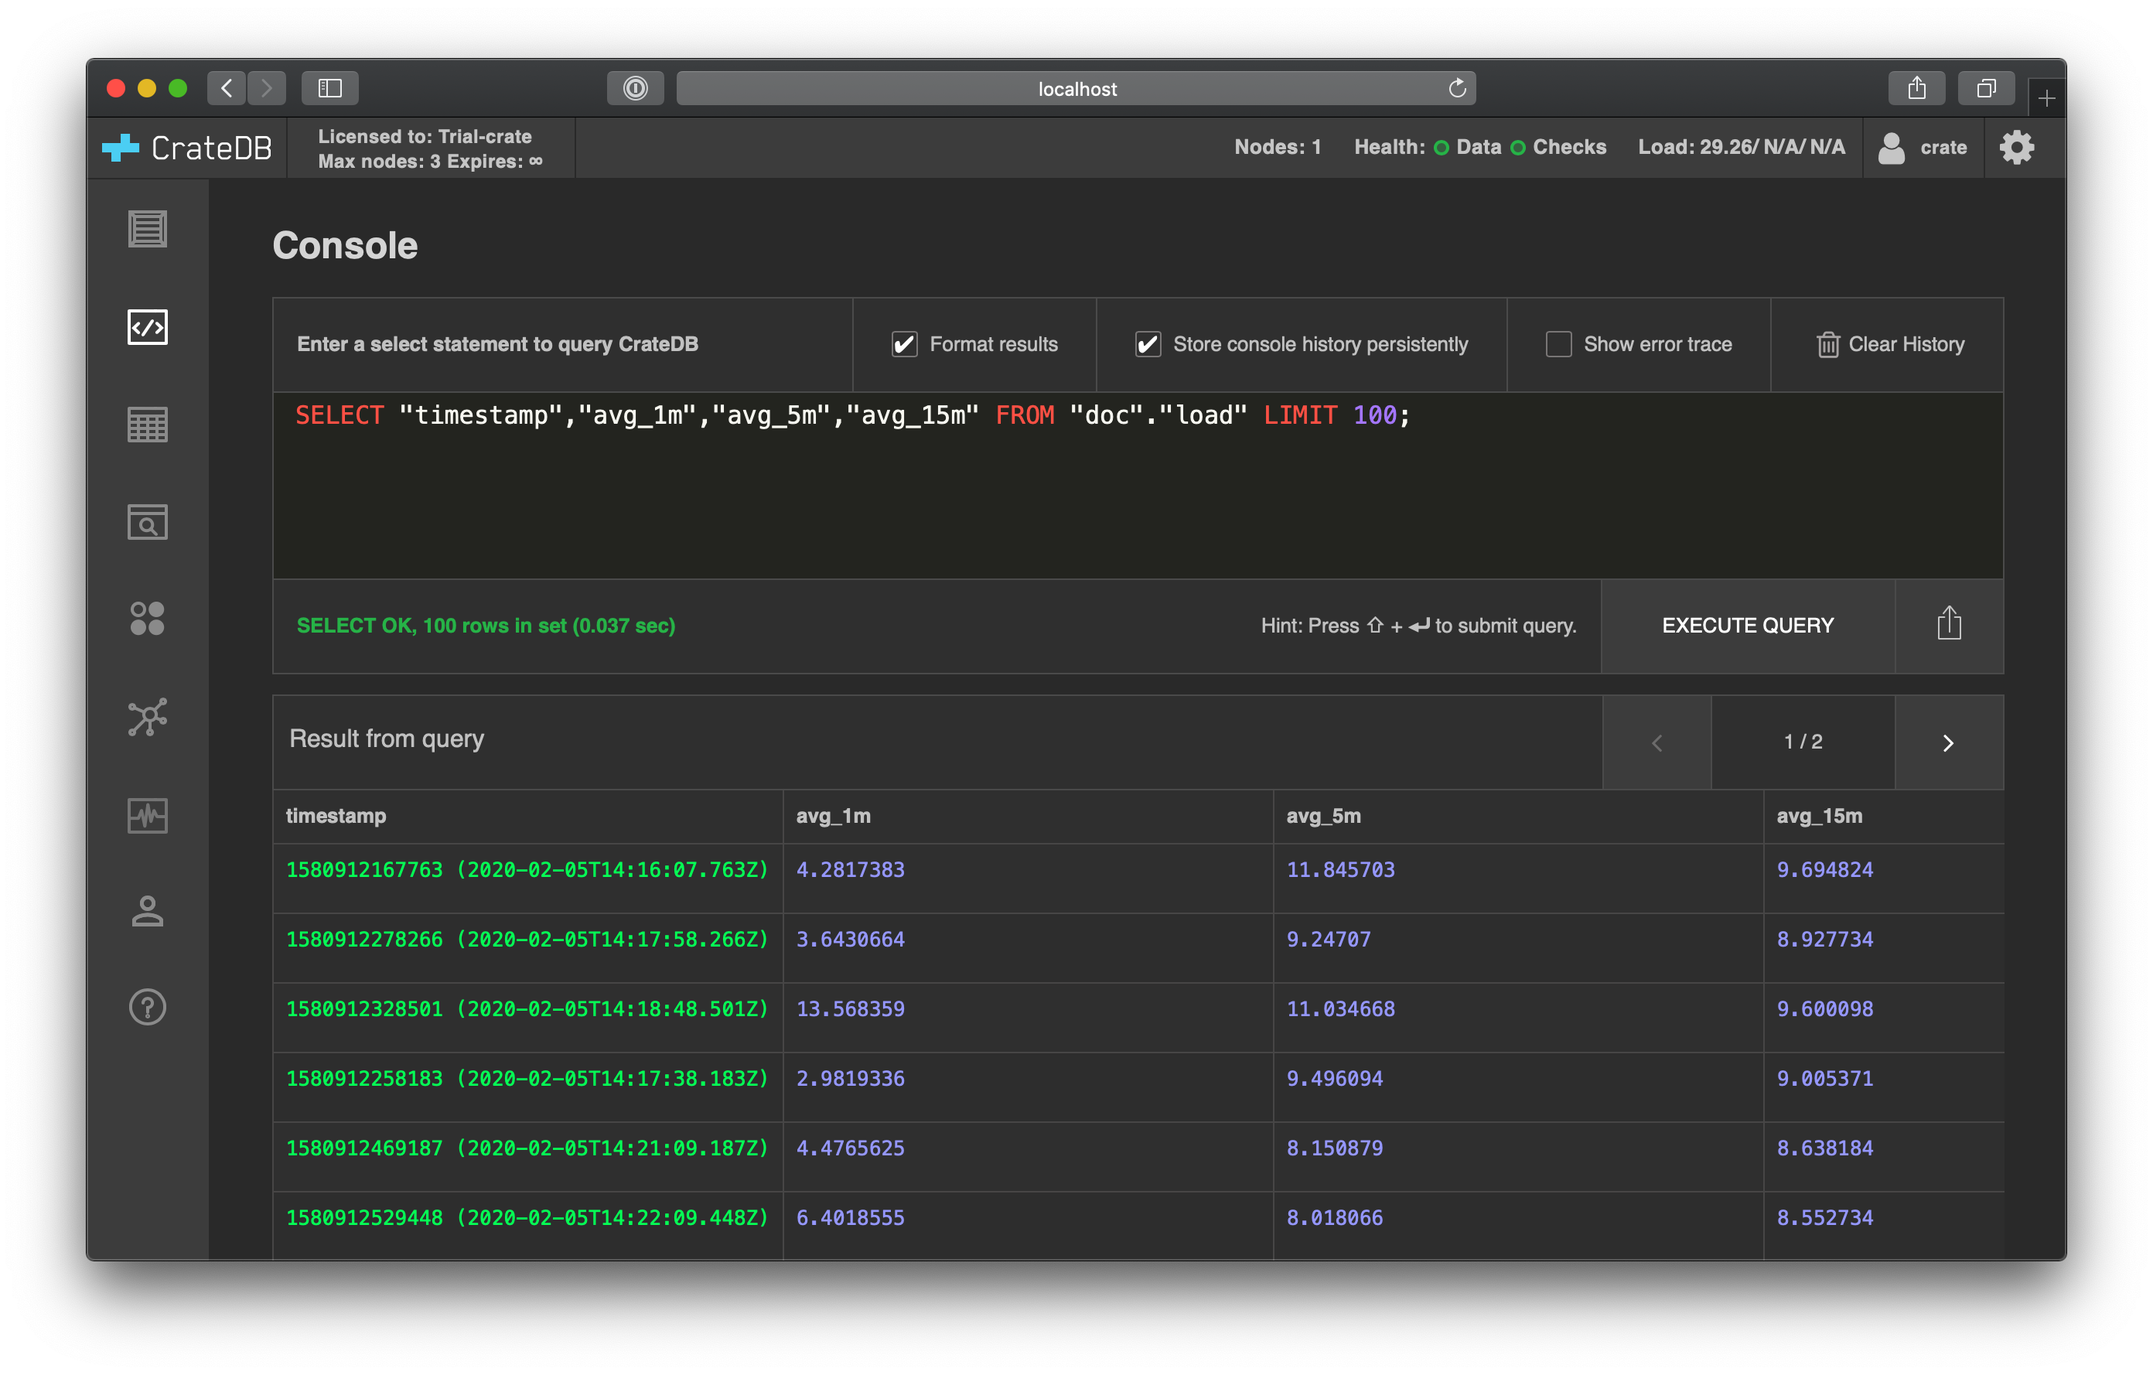
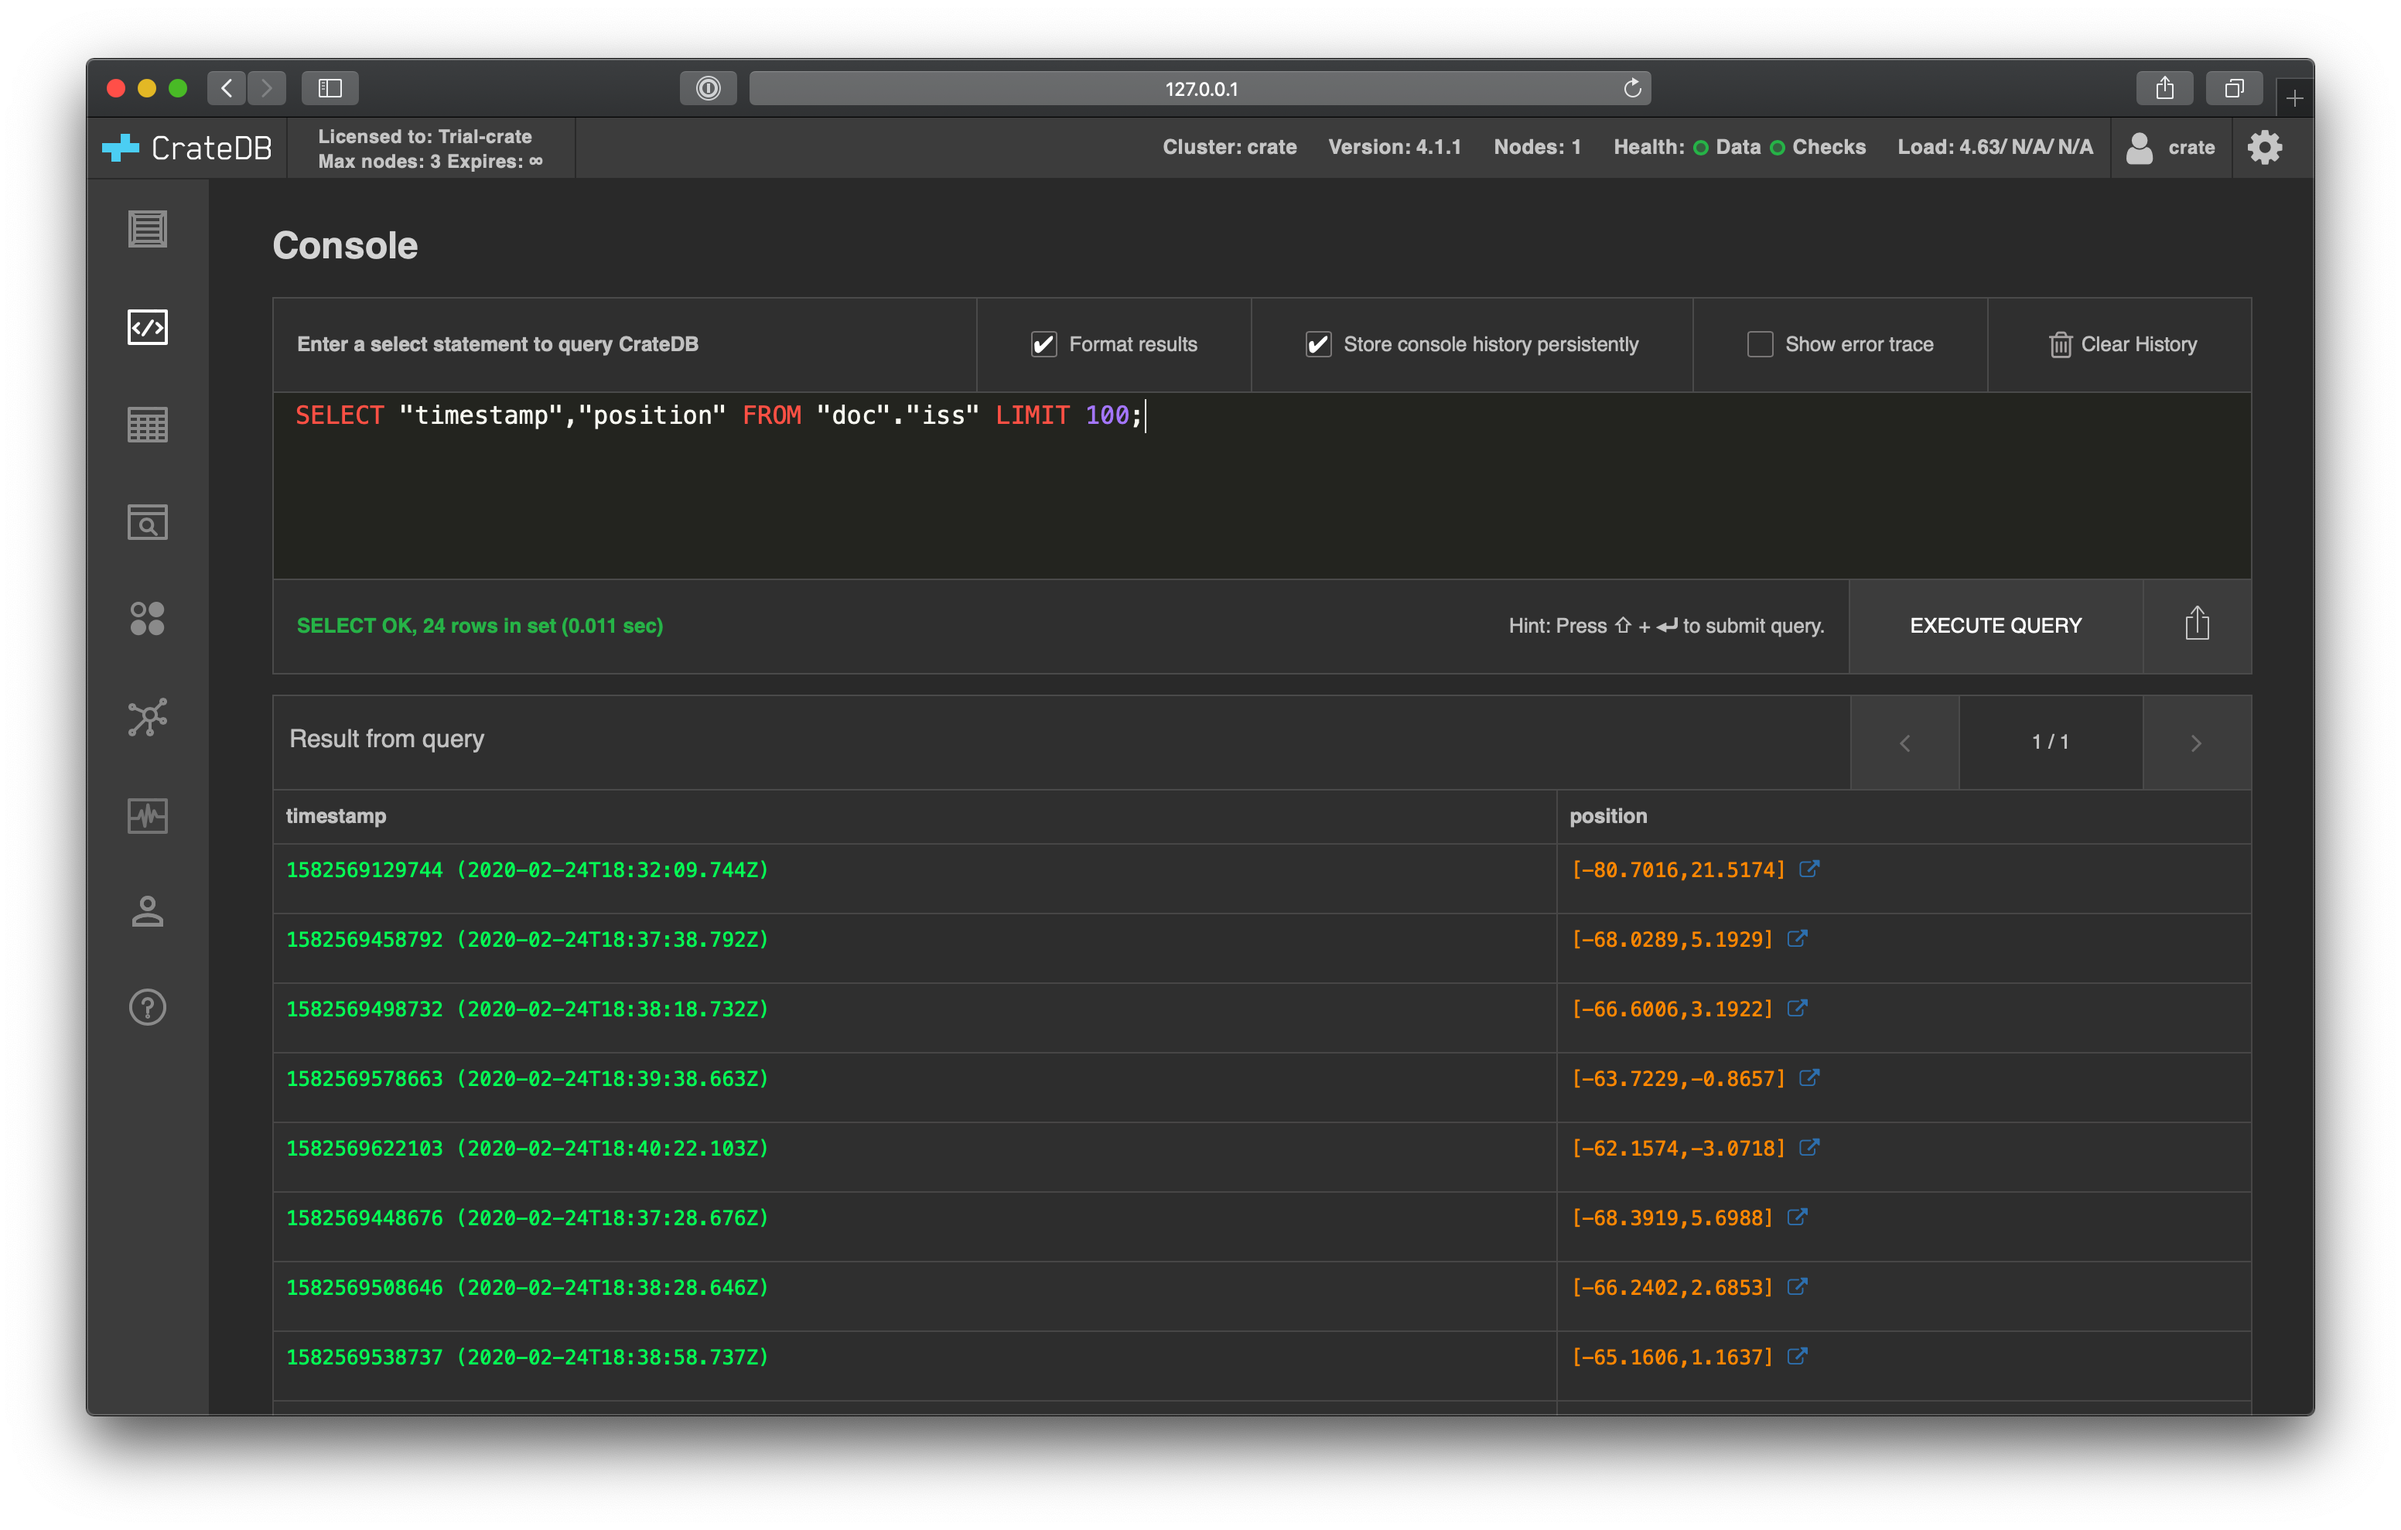
Add tutorial for generating time series data using node and node-postgres Co-authored-by: Naomi Slater <23469+mechanomi@users.noreply.github.com>

diff --git a/docs/generate-time-series/javascript.rst b/docs/generate-time-series/javascript.rst
@@ -1,0 +1,357 @@
+.. _gen-ts-javascript:
+
+==========================================
+Generate time series data using JavaScript
+==========================================
+
+This tutorial will show you how to generate some :ref:`experimental time series
+data <gen-ts>` from information about the `International Space Station`_
+using Javascript (specifically, `Node.js`_).
+
+.. SEEALSO::
+
+    :ref:`gen-ts`
+
+.. rubric:: Table of contents
+
+.. contents::
+   :local:
+
+
+Prerequisites
+=============
+
+You must have CrateDB :ref:`installed and running <install-run>`.
+
+Make sure you're running an up-to-date version of `Node`_.
+
+Then, upgrade to the latest `npm`_ version:
+
+.. code-block:: console
+
+    $ npm install -g npm@latest
+
+Install the `node-postgres`_ and `Axios`_ libraries:
+
+.. code-block:: console
+
+    $ npm install pg axios
+
+The ``node-postgres`` and ``axios`` libraries both use `Promises`_ when
+performing network operations. Promises are a way of encapsulating the eventual
+result of an asynchronous operation.
+
+.. seealso::
+
+    If you're not familiar with asynchronous operations and Promises, check out
+    Mozilla's `detailed guide`_ on the topic.
+
+Most of this tutorial is designed for Node's `interactive REPL mode`_ so that
+you can experiment with the commands as you see fit. Since both libraries use
+Promises, you should start ``node`` with support for the `await`_ operator,
+like so:
+
+.. code-block:: console
+
+    $ node --experimental-repl-await
+
+
+Use JavaScript to get ISS telemetry data
+=========================================
+
+You can get telemetry data from `Open Notify`_, a third-party service that
+provides a simple API to consume data from NASA (specifically, the current
+location of the International Space Station). The endpoint for this data is
+`<http://api.open-notify.org/iss-now.json>`_.
+
+Start an interactive Node session (as above).
+
+First, import the `Axios`_ library:
+
+.. code-block:: js
+
+    > const axios = require('axios').default;
+
+Then, read the current position of the ISS with an HTTP GET request to the Open
+Notify API endpoint, like this:
+
+.. code-block:: js
+
+    > let response = await axios.get('http://api.open-notify.org/iss-now.json')
+
+.. code-block:: js
+
+    > response.data
+    {
+      iss_position: { longitude: '-107.0497', latitude: '42.5431' },
+      message: 'success',
+      timestamp: 1582568638
+    }
+
+The endpoint returns a JSON payload, which contains an ``iss_position`` object
+with ``latitude`` and ``longitude`` data.
+
+You can encapsulate this operation with a function that returns longitude and
+latitude as a `WKT`_ string:
+
+.. code-block:: js
+
+    > async function position() {
+    ...     let response = await axios.get('http://api.open-notify.org/iss-now.json')
+    ...     return `POINT (${response.data.iss_position.longitude} ${response.data.iss_position.latitude})`
+    ... }
+
+When you run this function, it should return your point string:
+
+.. code-block:: js
+
+    > await position()
+
+.. code-block:: js
+
+    'POINT (-99.4196 38.1642)'
+
+Set up CrateDB
+==============
+
+First, import the `node-postgres`_ client:
+
+.. code-block:: js
+
+    > const { Client } = require('pg')
+
+Then `connect`_ to CrateDB, using the `Postgres Wire Protocol`_ port
+(``5432``):
+
+.. code-block:: js
+
+    > const client = new Client({connectionString: 'postgresql://crate@localhost:5432/doc'})
+
+.. code-block:: js
+
+    > await client.connect()
+
+Finally, `create a table`_ suitable for writing ISS position coordinates:
+
+.. code-block:: js
+
+    > var query = `
+    ...     CREATE TABLE iss (
+    ...         timestamp TIMESTAMP GENERATED ALWAYS AS CURRENT_TIMESTAMP,
+    ...         position GEO_POINT)`
+
+.. code-block:: js
+
+    > await client.query(query)
+
+.. code-block:: js
+
+    Result {
+      command: 'CREATE',
+      rowCount: 1,
+      oid: null,
+      rows: [],
+      fields: [],
+      _parsers: undefined,
+      _types: TypeOverrides {
+        _types: {
+          getTypeParser: [Function: getTypeParser],
+          setTypeParser: [Function: setTypeParser],
+          arrayParser: [Object],
+          builtins: [Object]
+        },
+        text: {},
+        binary: {}
+      },
+      RowCtor: null,
+      rowAsArray: false
+    }
+
+Success!
+
+In the `CrateDB Admin UI`_, you should see the new table when you navigate to
+the *Tables* screen using the left-hand navigation menu:
+
+.. image:: ../_assets/img/generate-time-series/table.png
+
+
+Record the ISS position
+=======================
+
+With the table in place, you can start recording the position of the ISS.
+
+The following command calls your ``position`` function and will `INSERT`_ the
+result into the ``iss`` table:
+
+.. code-block:: js
+
+    > await client.query("INSERT INTO iss (position) VALUES (?)", [await position()])
+
+.. code-block:: js
+
+    Result {
+      command: 'INSERT',
+      rowCount: 1,
+      oid: 0,
+      rows: [],
+      fields: [],
+      _parsers: undefined,
+      _types: TypeOverrides {
+        _types: {
+          getTypeParser: [Function: getTypeParser],
+          setTypeParser: [Function: setTypeParser],
+          arrayParser: [Object],
+          builtins: [Object]
+        },
+        text: {},
+        binary: {}
+      },
+      RowCtor: null,
+      rowAsArray: false
+    }
+
+Press the up arrow on your keyboard and hit *Enter* to run the same command a
+few more times.
+
+When you're done, you can `SELECT`_ that data back out of CrateDB, like so:
+
+.. code-block:: js
+
+    > let result = await client.query('SELECT * FROM iss')
+
+.. code-block:: js
+
+    > result.rows
+    [
+      {
+        timestamp: 2020-02-24T18:32:09.744Z,
+        position: { x: -80.7016, y: 21.5174 }
+      },
+      {
+        timestamp: 2020-02-24T18:31:43.542Z,
+        position: { x: -81.8096, y: 22.7667 }
+      },
+      {
+        timestamp: 2020-02-24T18:32:03.622Z,
+        position: { x: -80.9554, y: 21.8065 }
+      }
+    ]
+
+Here you have recorded three sets of ISS position coordinates.
+
+Automate it
+===========
+
+Now you have the basics figured out, let's automate the data collection. Doing
+this will require a change of approach.
+
+Previously, you were using a `client`_ to connect to and insert data into
+CrateDB. However, clients are ephemeral, and once closed, you need to recreate
+them. Creating a new client requires a handshake with CrateDB, and this
+overhead cost can be prohibitive if you are rapidly creating new clients.
+
+Instead, use a `connection pool`_ to manage your connections. Connection pools
+manage a collection of connected clients that you can request, use, and return
+to the pool.
+
+Create a new file called ``iss-position.js``, like this:
+
+.. code-block:: javascript
+
+    const axios = require('axios').default;
+    const { Pool } = require('pg')
+    const pool = new Pool({connectionString: 'postgresql://crate@localhost:5432/doc'})
+
+    // Sampling resolution
+    const seconds = 10
+
+    // Get data from the API, and, if successful, insert it into CrateDB
+    function insert() {
+        axios.get('http://api.open-notify.org/iss-now.json')
+        .then(response => {
+            longitude = response.data.iss_position.longitude
+            latitude = response.data.iss_position.latitude
+            current_position = `POINT (${longitude} ${latitude})`
+            return pool.query(
+                "INSERT INTO iss (position) VALUES (?)", [current_position])
+        })
+        .then(_ => console.log("INSERT OK"))
+        .catch(err => console.error("INSERT ERORR", err))
+    }
+
+    // Loop indefinitely
+    async function loop() {
+        while (true) {
+            insert()
+            console.log("Sleeping for 10 seconds...")
+            await new Promise(r => setTimeout(r, seconds * 1000))
+        }
+    }
+
+    loop()
+
+In the above script, you have merged the ``position`` function with the
+insertion. It uses `Promise chaining`_ so that the API query and the CrateDB
+insertion can happen sequentially, yet asynchronously.
+
+You also have some basic error handling, in case either the API query or the
+CrateDB operation fails.
+
+Here, the script sleeps for 10 seconds after each sample. Accordingly, the time
+series data will have a *resolution* of 10 seconds. If you wish to change this
+resolution, you may want to configure your script differently.
+
+Run the script from the command line, like so:
+
+.. code-block:: console
+
+    $ node iss-position.js
+    INSERT OK
+    Sleeping for 10 seconds...
+    INSERT OK
+    Sleeping for 10 seconds...
+    INSERT OK
+    Sleeping for 10 seconds...
+
+.. TIP::
+
+    If you get a ``MODULE_NOT_FOUND`` error when trying to  run this script,
+    make sure you are running it from the same directory installed the npm
+    libraries.
+
+As the script runs, you should see the table filling up in the CrateDB Admin
+UI:
+
+.. image:: ../_assets/img/generate-time-series/rows.png
+
+Lots of freshly generated time series data, ready for use.
+
+And, for bonus points, if you select the arrow next to the location data, it
+will open up a map view showing the current position of the ISS:
+
+.. image:: ../_assets/img/generate-time-series/map.png
+
+
+.. _await: https://developer.mozilla.org/en-US/docs/Youb/JavaScript/Reference/Operators/await
+.. _axios: https://www.npmjs.com/package/axios
+.. _Client: https://node-postgres.com/api/client
+.. _connect: https://node-postgres.com/features/connecting
+.. _Connection Pool: https://node-postgres.com/api/pool
+.. _CrateDB Admin UI: https://crate.io/docs/clients/admin-ui/en/latest/
+.. _create a table: https://crate.io/docs/crate/reference/en/latest/general/ddl/create-table.html
+.. _detailed guide: https://developer.mozilla.org/en-US/docs/Learn/JavaScript/Asynchronous/Promises
+.. _input values: https://node-postgres.com/features/queries#Parameterized%20query
+.. _INSERT: https://crate.io/docs/crate/reference/en/latest/general/dml.html#inserting-data
+.. _interactive REPL mode: https://www.oreilly.com/library/view/learning-node-2nd/9781491943113/ch04.html
+.. _international space station: https://www.nasa.gov/mission_pages/station/main/index.html
+.. _node-postgres: https://www.npmjs.com/package/pg
+.. _Node: https://nodejs.org/en/
+.. _Node.js: https://nodejs.org/en/
+.. _npm: https://www.npmjs.com/
+.. _open notify: http://open-notify.org/
+.. _Postgres Wire Protocol: https://crate.io/docs/crate/reference/en/latest/interfaces/postgres.html
+.. _Promise chaining: https://javascript.info/promise-chaining
+.. _Promises: https://developer.mozilla.org/en-US/docs/Web/JavaScript/Reference/Global_Objects/Promise
+.. _SELECT: https://crate.io/docs/crate/reference/en/latest/general/dql/selects.html
+.. _time series: https://en.wikipedia.org/wiki/Time_series
+.. _WKT: https://en.wikipedia.org/wiki/Well-known_text_representation_of_geometry

diff --git a/docs/generate-time-series/index.rst b/docs/generate-time-series/index.rst
@@ -1,8 +1,8 @@
 .. _gen-ts:
 
-==========================================
-Generate time series data from system load
-==========================================
+=========================
+Generate time series data
+=========================
 
 CrateDB is purpose-built for working with massive amounts of time series data,
 like the type of data produced by smart sensors and other `Internet of Things`_
@@ -13,8 +13,8 @@ are going to need a source of time series data. Fortunately, there are many
 ways to generate time series data by sampling the systems running on your local
 computer.
 
-This collection of tutorials will show you how to sample your `system load`_
-and write time series data to CrateDB using the client of your choice.
+This collection of tutorials will show you how to generate your own time series
+data and write it to CrateDB using the client of your choice.
 
 .. rubric:: Table of contents
 
@@ -24,6 +24,7 @@ and write time series data to CrateDB using the client of your choice.
 
    cli
    python
+   javascript
 
 .. _system load: https://en.wikipedia.org/wiki/Load_(computing)
 .. _Internet of Things: https://en.wikipedia.org/wiki/Internet_of_things
